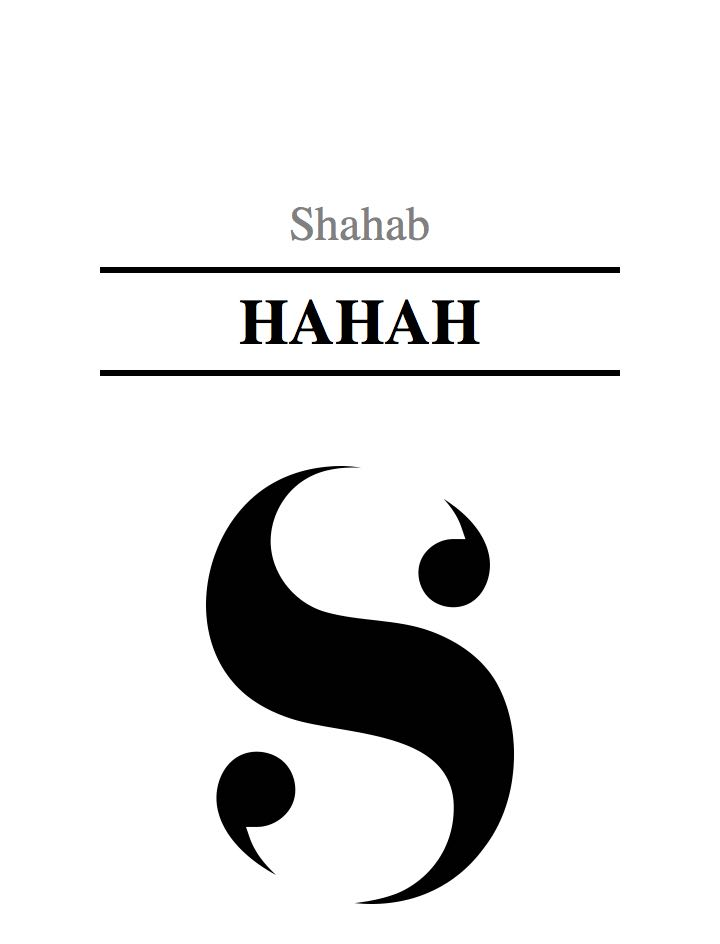
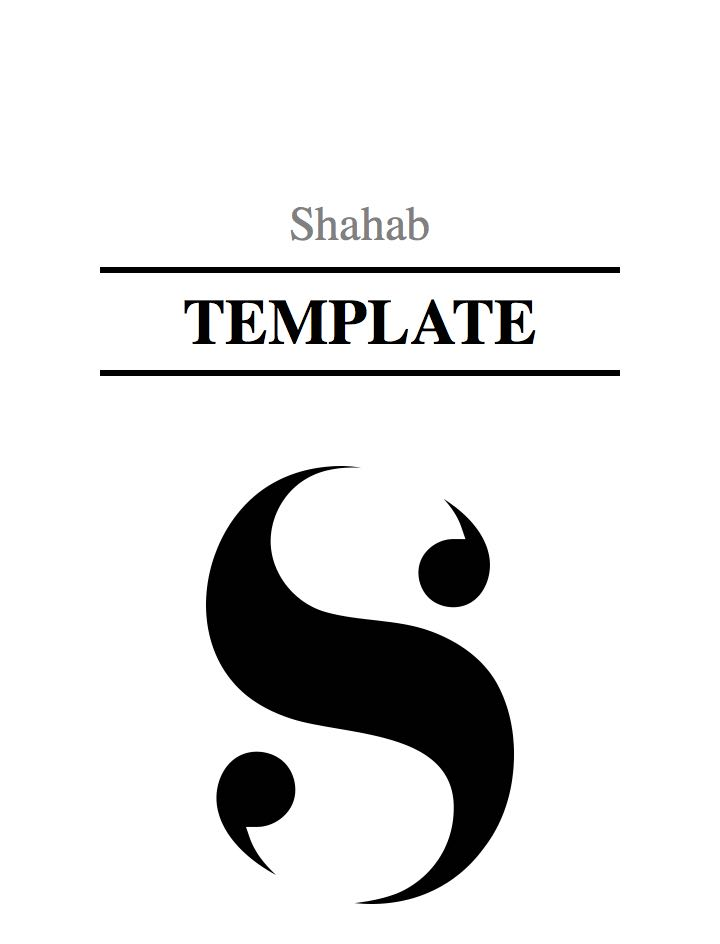
buildCustomMetaDataSettings function was added

Changed region(s): [[0.2444, 0.3072, 0.7639, 0.3686]]

diff --git a/excelToScriv.js b/excelToScriv.js
@@ -1,15 +1,59 @@
 
 var xlsx = require('node-xlsx');
 var fs = require('fs');
+var ncp = require('ncp').ncp; //Module to copy folders
 
-var f = "/Users/shahab/lighthouse/scriv/render3/render0.3.xlsx";
+var f = "/Users/shahab/lighthouse/scriv/excelToScriv/render0.3.xlsx";
+
+const scriv = f.substr(0,f.indexOf('xlsx')) + 'scriv'; //builds the destination path for scriv file
+const fileName = scriv.substr(scriv.lastIndexOf('/'), scriv.length) + 'x';
+const scrivx =scriv +fileName; //builds the destination path for scrivx file
+
+ncp.limit = 16;//part of the module
+ncp('./template.scriv', scriv, function (err) { //copies the template scriv file to the destination of scriv with the final name
+ if (err) {
+   return console.error(err);
+ }
+ console.log('done!');
+});
+
+fs.rename(scriv + 'template.scrivx', scrivx, function(err) {//changes the name of template.scrivx file to the final name
+    if ( err ) console.log('ERROR: ' + err);
+});
 
 
 
-var obj = xlsx.parse(f); // parses a file
-buildCustomMetaDataSettings(obj[0].data[0]);
-var text = fs.readFileSync('./template.scriv/template.scrivx').toString('utf-8');
+
+
+
+
+var excel = xlsx.parse(f); // parses the excel file
+var text = fs.readFileSync('./template.scriv/template.scrivx').toString('utf-8'); //reads the text from scrivx file
+buildKeywords(excel);
+text = text.replace('<CustomMetaDataSettings></CustomMetaDataSettings>' , buildCustomMetaDataSettings(excel)); //builds CustomMetaDataSettings part and puts it in the text
+
+fs.writeFile(scrivx, text, function(err) {//writes the text to scrivx file
+    if(err) {
+        return console.log(err);
+    }
+
+    console.log("The file was saved!");
+});
+
 
 function buildCustomMetaDataSettings(excel){
+  var metaSetting = excel[0].data[0];
+  metaSetting.splice(0,2);//removes manually added metadata
+  metaSetting.splice(1,6);//removes manually added metadata
+  var str = '';
+  metaSetting.forEach(function(meta){
+    str += '      <MetaDataField ID="' + meta + '" Type="Text" Wraps="No" Align="Left">\n       <Title>' + meta + '</Title>\n      </MetaDataField>\n';
+  })
+  str = '<CustomMetaDataSettings>' + str + '    </CustomMetaDataSettings>';
+  return str
+}
+
+function buildKeywords (excel){
+  console.log(excel[0].data[0]);
 
 }

diff --git a/template.scriv/QuickLook/Preview.html b/template.scriv/QuickLook/Preview.html
@@ -1,7 +1,7 @@
 <html>
 
 <head>
-<title>hahah</title>
+<title>template</title>
 <meta http-equiv="Content-Type" content="text/html; charset=utf-8">
 
 <!-- NOTE: margin property = top-right-bottom-left -->
